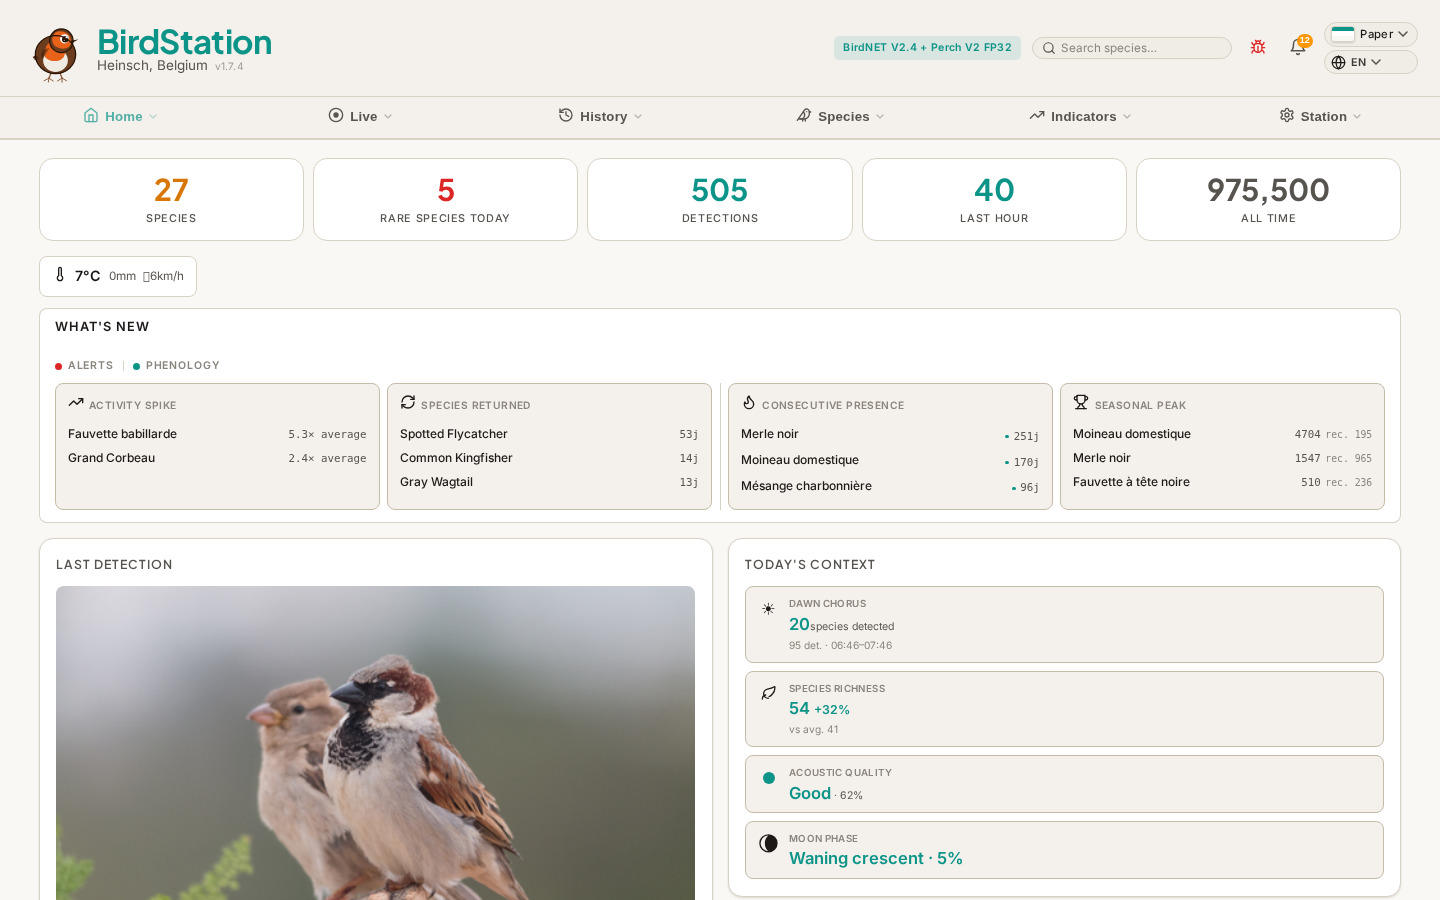
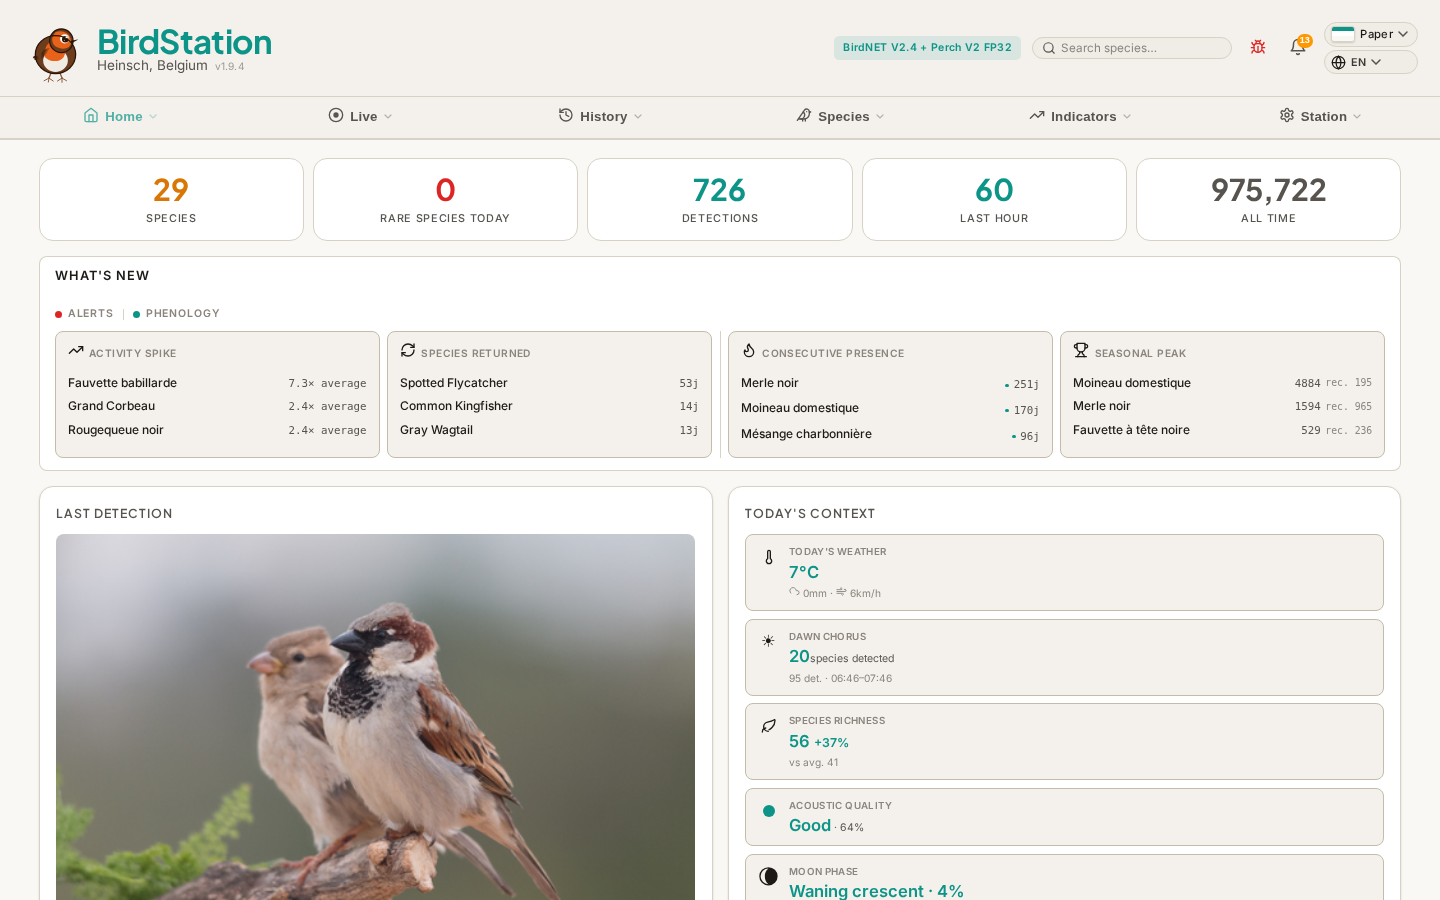
fix(overview): move weather widget into Today's Context card
The weather widget (temp, precip, wind) was alone on a line above
What's New. Moved it into the "Today's Context" card as the first
item, alongside dawn chorus, species richness, acoustic quality,
and moon phase. Uses Lucide icons (thermometer, cloud, wind)
instead of the 💨 emoji. Clickable → weather.html.

Added wn_card_weather i18n key (4 languages).

diff --git a/public/overview.html b/public/overview.html
@@ -73,16 +73,6 @@
       </a>
     </div>
 
-    <!-- Weather widget -->
-    <div v-if="weatherToday" style="margin-bottom:.75rem;">
-      <a href="weather.html" class="weather-widget" style="text-decoration:none;">
-        <span style="font-size:1.1rem;"><bird-icon name="thermometer" :size="16"></bird-icon></span>
-        <span style="font-weight:600;font-size:.95rem;">{{weatherToday.temp}}°C</span>
-        <span style="color:var(--text-muted);font-size:.78rem;">{{weatherToday.precip}}mm</span>
-        <span style="color:var(--text-muted);font-size:.78rem;">💨{{weatherToday.wind}}km/h</span>
-      </a>
-    </div>
-
     <!-- ═══ What's New — alertes + phénologie ═══ -->
     <div v-if="whatsNew.loaded" class="wn-section" style="margin-bottom:1rem;">
 
@@ -251,6 +241,14 @@
       <div v-if="whatsNew.loaded" class="card">
         <div class="card-title">{{t('wn_level_context')}}</div>
         <div class="wn-context-grid" style="grid-template-columns:1fr;">
+          <a v-if="weatherToday" href="weather.html" class="wn-ctx-card" style="text-decoration:none;color:inherit;">
+            <div class="wn-ctx-icon"><bird-icon name="thermometer" :size="16"></bird-icon></div>
+            <div class="wn-ctx-body">
+              <div class="wn-ctx-label">{{t('wn_card_weather')}}</div>
+              <div class="wn-ctx-hero">{{weatherToday.temp}}°C</div>
+              <div class="wn-ctx-sub"><bird-icon name="cloud" :size="11"></bird-icon> {{weatherToday.precip}}mm · <bird-icon name="wind" :size="11"></bird-icon> {{weatherToday.wind}}km/h</div>
+            </div>
+          </a>
           <div class="wn-ctx-card" v-if="whatsNew.context.dawn_chorus.data">
             <div class="wn-ctx-icon">☀</div>
             <div class="wn-ctx-body">
